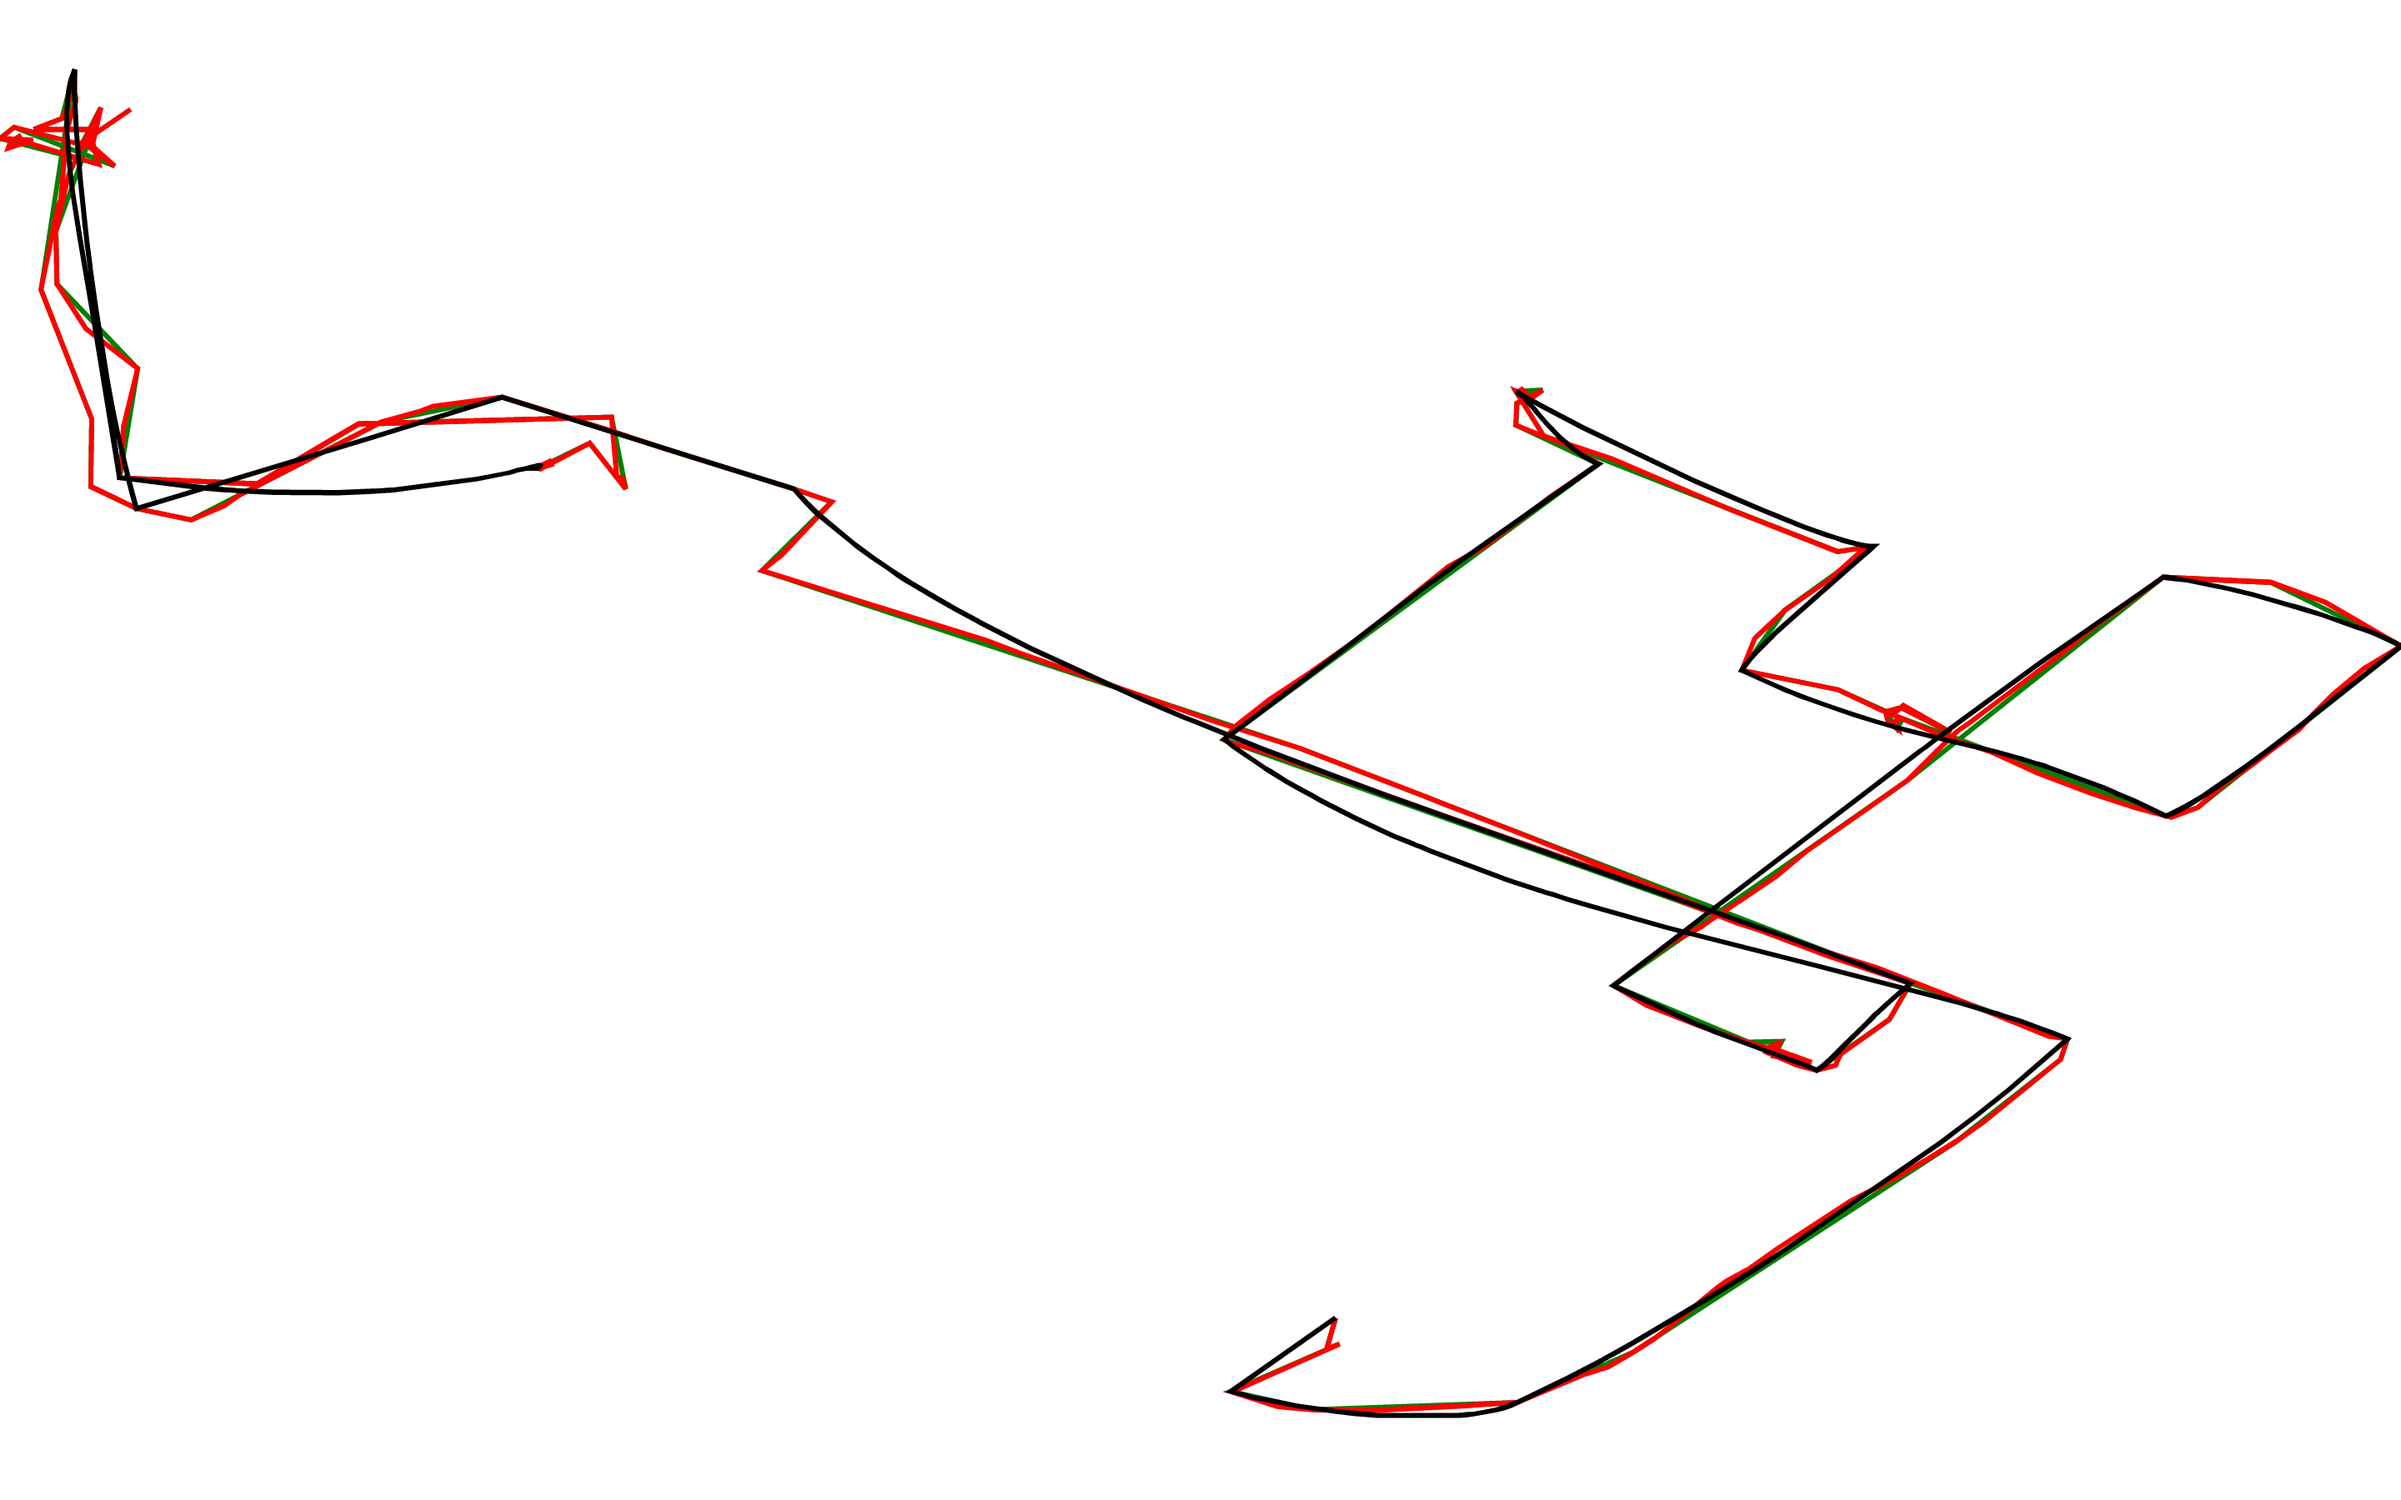
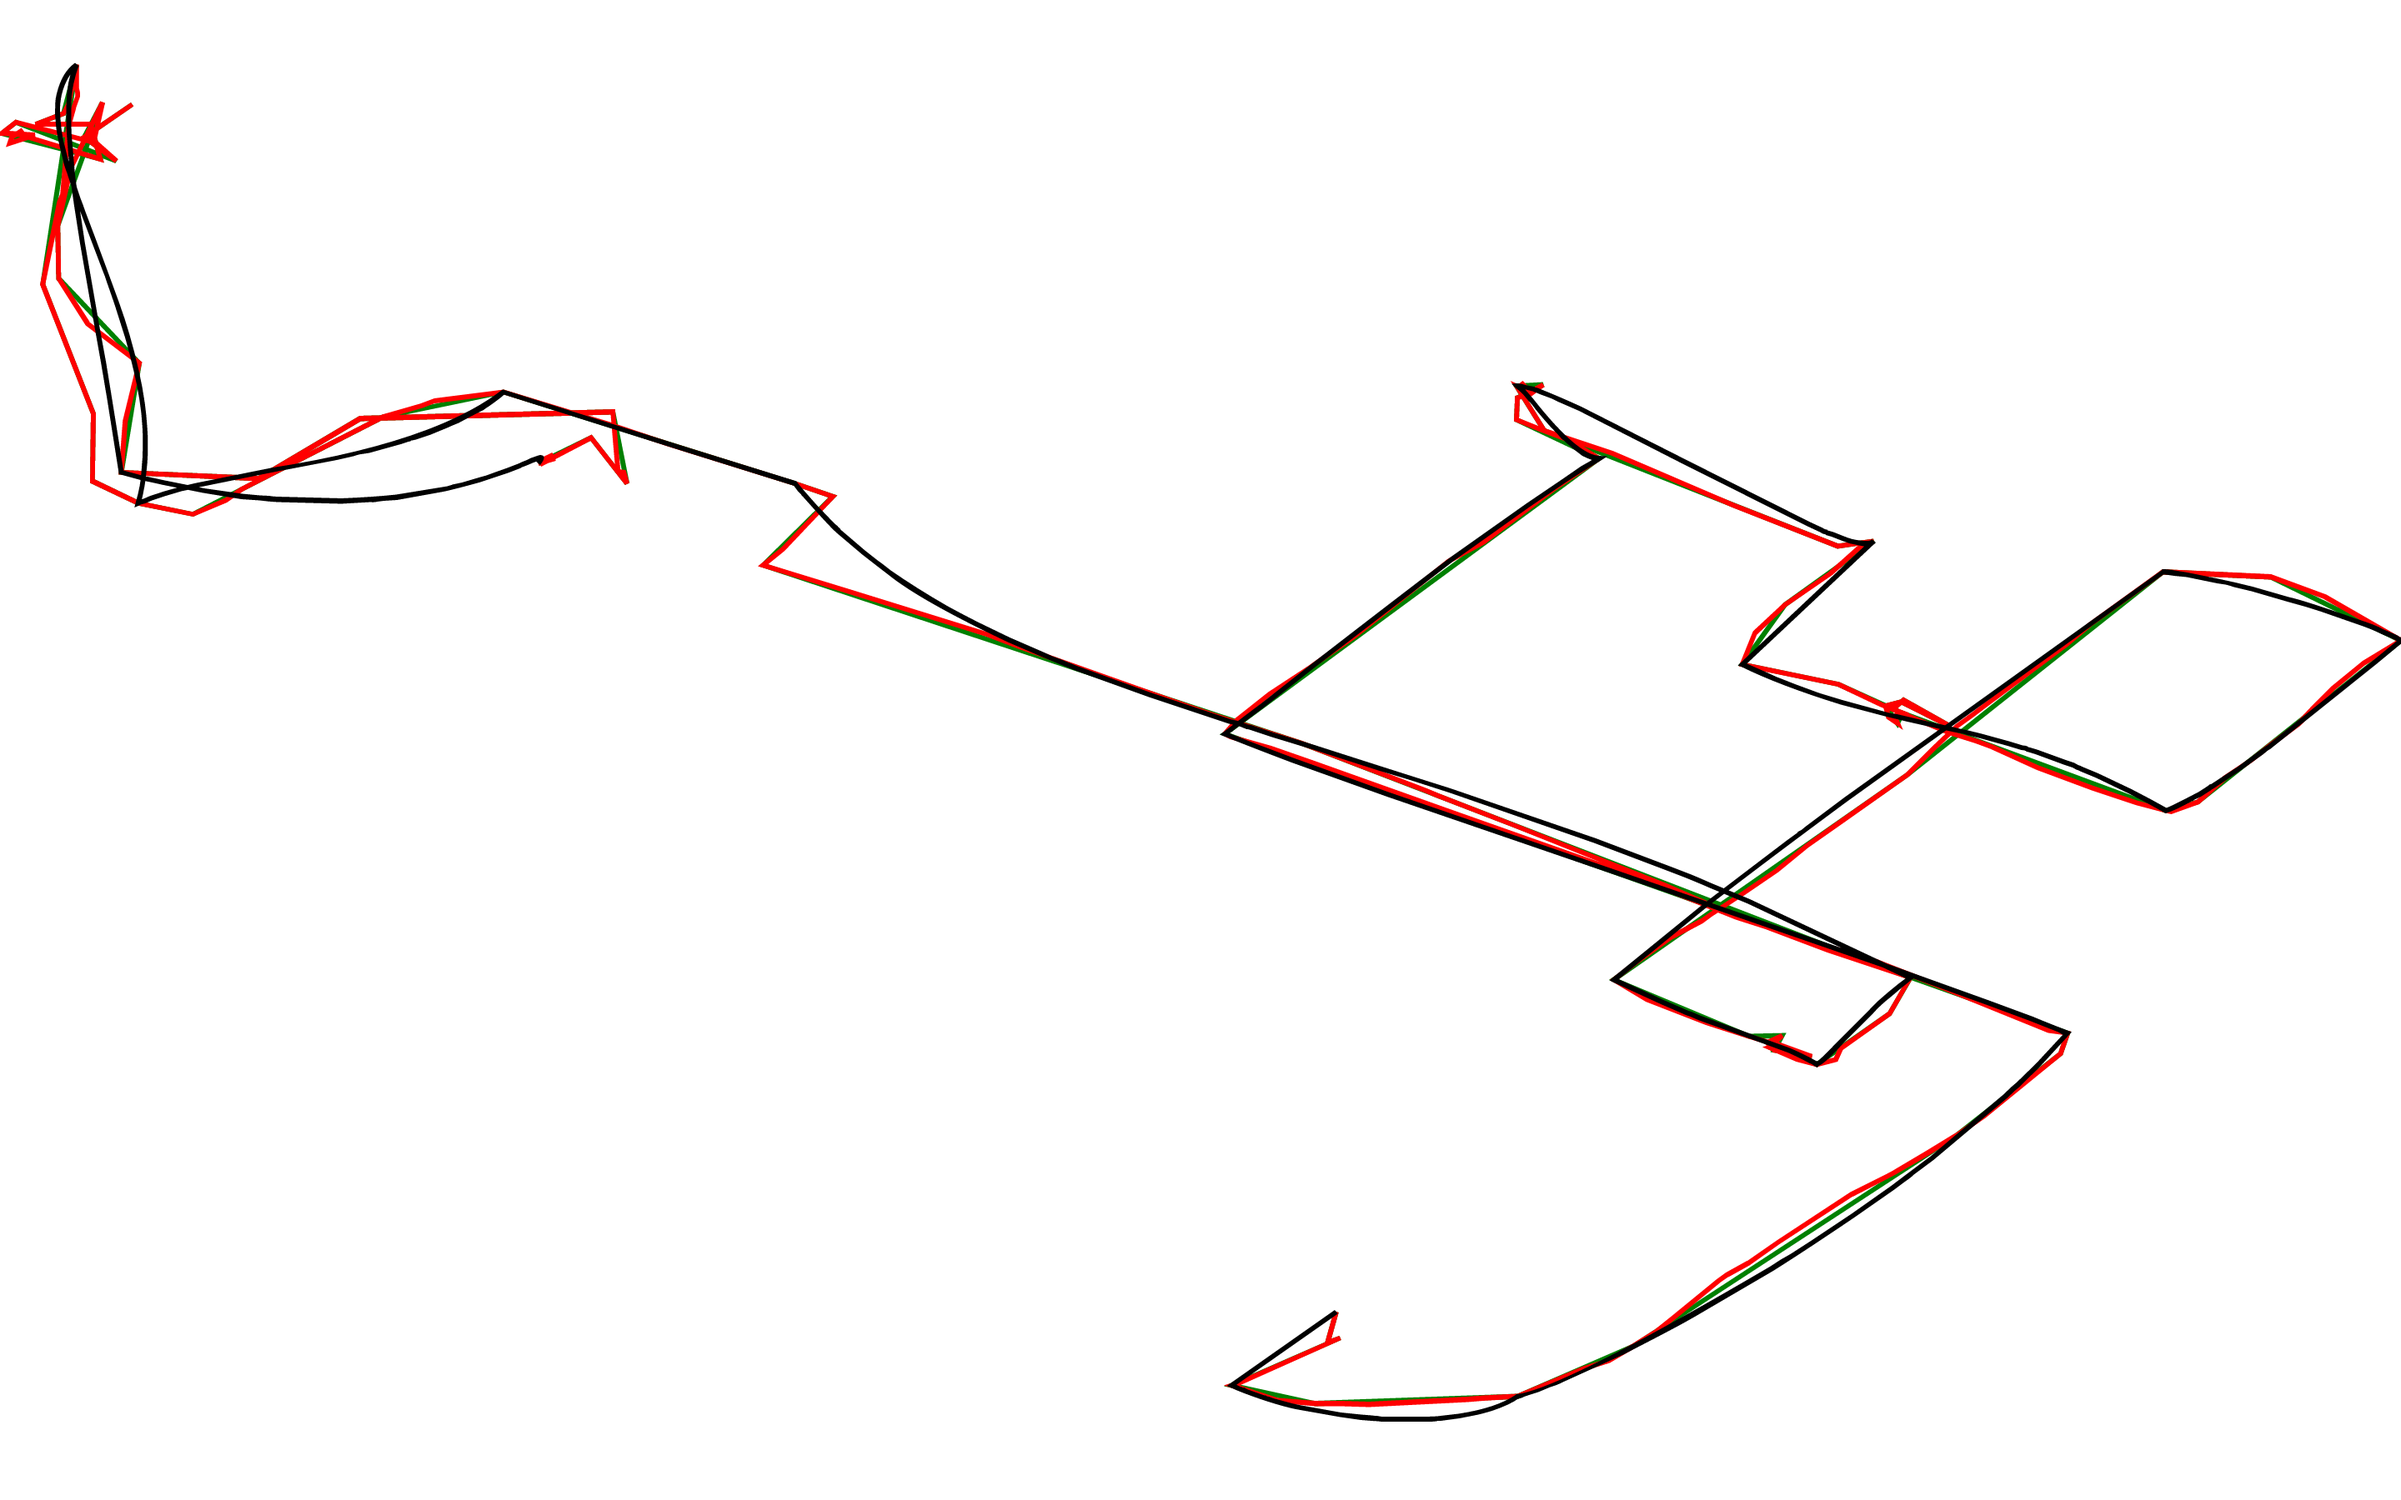
very nice!

diff --git a/src/lineStyles/ctBezier.js b/src/lineStyles/ctBezier.js
@@ -18,8 +18,8 @@ function distanceFromLineToPoint(line, point) {
     );
 }
 
-function computeHandle(skippedPointsGroup, anchorTangent, anchor) {
-    var avgCenter, geoCenter, centersTangent, centersDistance, handleDistance, bounds, boundsRatio, ret;
+function computeHandle(skippedPointsGroup, anchorTangent, anchor, maxDistance) {
+    var avgCenter, geoCenter, centersTangent, handleDistance, bounds, boundsRatio, ret;
 
     avgCenter = lineUtil.geolibToJson(geolib.getCenter(skippedPointsGroup));
     geoCenter = lineUtil.geolibToJson(geolib.getCenterOfBounds(skippedPointsGroup));
@@ -28,18 +28,15 @@ function computeHandle(skippedPointsGroup, anchorTangent, anchor) {
         return lineUtil.rotate(anchor[0], anchor[1], point[0], point[1], anchorTangent);
     });
 
-    centersDistance = lineUtil.getSqDist(avgCenter, geoCenter);
-    if (centersDistance) {
-        bounds = geolib.getBounds(skippedPointsGroup);
-        boundsRatio = (bounds.maxLng - bounds.minLng) / (bounds.maxLat - bounds.minLat);
-    }
+    bounds = geolib.getBounds(skippedPointsGroup);
+    boundsRatio = (bounds.maxLng - bounds.minLng) / (bounds.maxLat - bounds.minLat);
 
-    if (centersDistance && boundsRatio) {
+    if (boundsRatio) {
         if (boundsRatio < 1) {
             boundsRatio = 1 / boundsRatio;
         }
         centersTangent = anchorTangent + (Math.atan2(avgCenter[1] - geoCenter[1], avgCenter[0] - geoCenter[0]));
-        handleDistance = Math.sqrt(centersDistance * Math.log(boundsRatio));
+        handleDistance = Math.log(boundsRatio) * maxDistance;
         ret = [
             avgCenter[0] + handleDistance * Math.sin(centersTangent),
             avgCenter[1] + handleDistance * Math.cos(centersTangent)
@@ -97,8 +94,8 @@ function douglasPeucker(points) {
 
         returnPoints = [{
             point: points[points.length - 1],
-            handle1: computeHandle(_.pluck(points.slice(0, halfIdx), 'coordinates'), anchorTangent, lastPoint),
-            handle2: computeHandle(_.pluck(points.slice(halfIdx, points.length), 'coordinates'), anchorTangent, point)
+            handle1: computeHandle(_.pluck(points.slice(0, halfIdx), 'coordinates'), anchorTangent, lastPoint, maxDistance),
+            handle2: computeHandle(_.pluck(points.slice(halfIdx, points.length), 'coordinates'), anchorTangent, point, maxDistance)
         }];
     }
 
